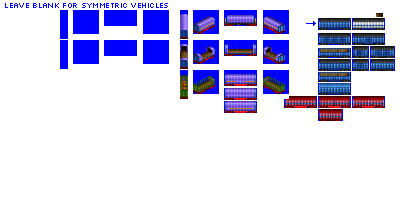
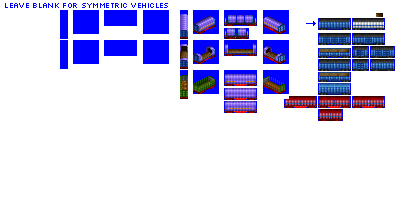
Change: tweaks to gen 4B, 4C coil cars

Changed region(s): [[0.54, 0.06, 0.66, 0.21]]

diff --git a/src/vehicles/coil_cars.py b/src/vehicles/coil_cars.py
@@ -11,8 +11,7 @@ def main():
                              sprites_complete=False)
 
     consist.add_unit(type=FreightCar,
-                     cargo_length=8,
-                     chassis='4_axle_sparse_24px')
+                     chassis='4_axle_gapped_24px')
 
 
     consist = CoilCarConsist(roster='pony',
@@ -22,8 +21,7 @@ def main():
                              sprites_complete=False)
 
     consist.add_unit(type=FreightCar,
-                     cargo_length=8,
-                     chassis='4_axle_sparse_32px')
+                     chassis='4_axle_gapped_32px')
 
 
     consist = CoilCarConsist(roster='pony',
@@ -33,7 +31,6 @@ def main():
                              sprites_complete=False)
 
     consist.add_unit(type=FreightCar,
-                     cargo_length=8,
                      chassis='4_axle_sparse_24px')
 
 
@@ -44,7 +41,6 @@ def main():
                              sprites_complete=False)
 
     consist.add_unit(type=FreightCar,
-                     cargo_length=8,
                      chassis='4_axle_sparse_32px')
 
 
@@ -55,7 +51,6 @@ def main():
                              sprites_complete=False)
 
     consist.add_unit(type=FreightCar,
-                     cargo_length=8,
                      chassis='4_axle_sparse_24px')
 
 
@@ -66,5 +61,4 @@ def main():
                              sprites_complete=False)
 
     consist.add_unit(type=FreightCar,
-                     cargo_length=8,
                      chassis='4_axle_sparse_32px')
